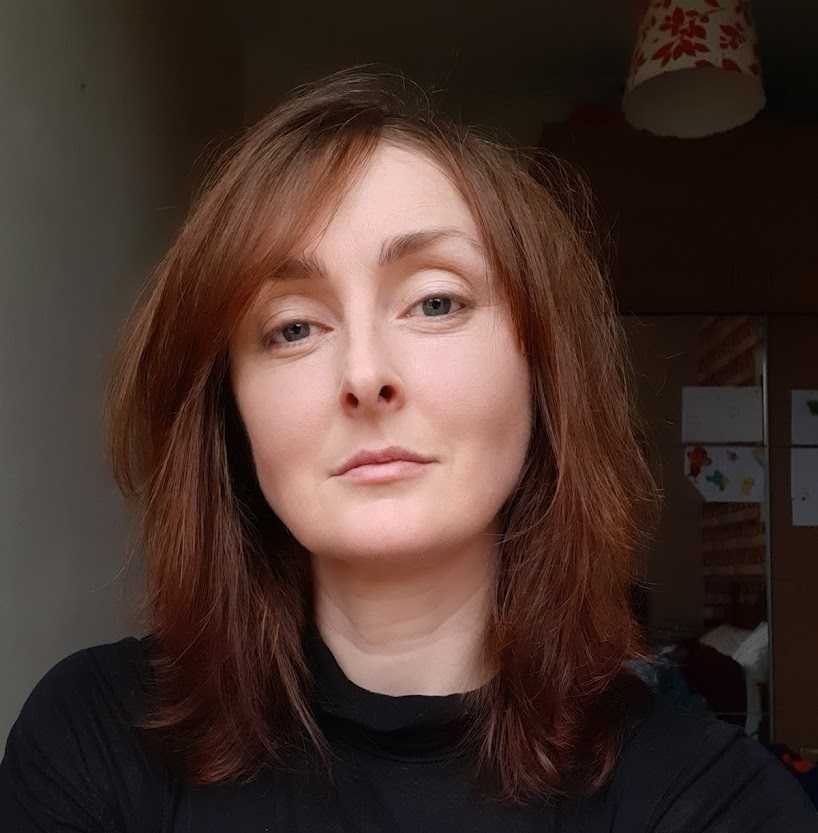
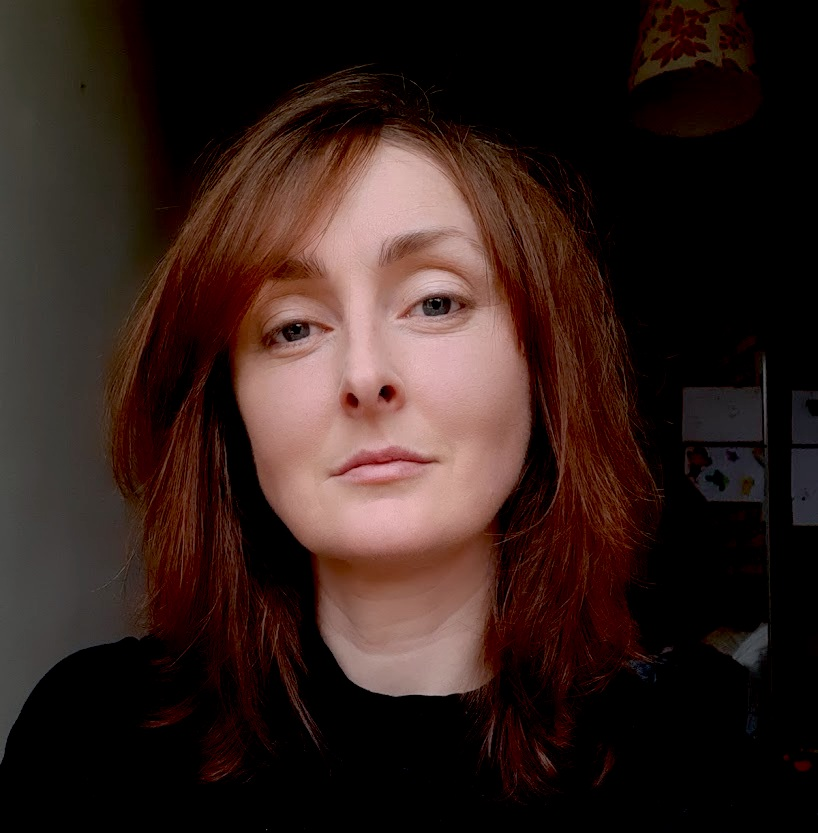
updated image

diff --git a/index.html b/index.html
@@ -20,7 +20,7 @@
             <section>
                 <h2>About me</h2>
                 <div>
-                <img src="screengrabs/colette.jpg" alt="a photo of colette">
+                <img src="screengrabs/colette_bw.jpg" alt="a photo of colette">
                 <p>Lorem ipsum dolor sit amet consectetur adipisicing elit. Enim, omnis. Excepturi, quo aliquid! Unde, voluptate consequatur dicta rerum hic tempora velit quisquam asperiores libero sed in enim. Incidunt, labore quo!</p>
                 <p>Lorem ipsum dolor, sit amet consectetur adipisicing elit. Iusto sapiente distinctio consequuntur minima porro eligendi architecto unde nulla dolore, vitae asperiores fugiat aperiam. Veritatis vel numquam totam nobis autem laboriosam. Lorem ipsum dolor, sit amet consectetur adipisicing elit. Iusto sapiente distinctio consequuntur minima porro eligendi architecto unde nulla dolore, vitae asperiores fugiat aperiam. Veritatis vel numquam totam nobis autem laboriosam. Lorem ipsum dolor, sit amet consectetur adipisicing elit. Iusto sapiente distinctio consequuntur minima porro eligendi architecto unde nulla dolore, vitae asperiores fugiat aperiam. Veritatis vel numquam totam nobis autem laboriosam.</p>
                 <a href="#"> My CV</a>
